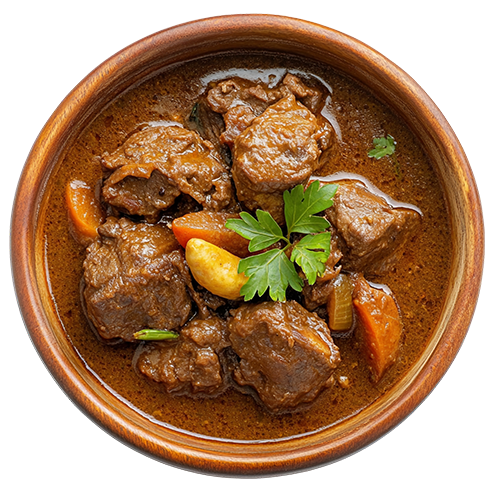
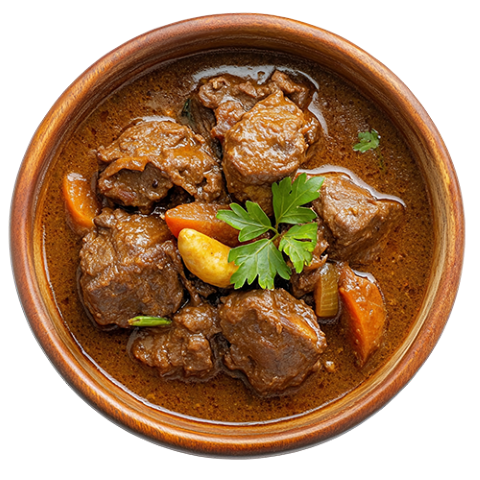
''

diff --git a/index.html b/index.html
@@ -91,7 +91,7 @@
                 <div class="card">
                     <img src="img/samosa.png" alt="" class="dis">
                     <h4>Ksh 100</h4>
-                    <h5>Samosa</h5>
+                    <h5>Samosa </h5>
                     <p>Per Samosa</p>
                     <div class="rate_cart">
                         <h6>5.0</h6>
@@ -111,9 +111,9 @@
                 </div>
 
                 <div class="card">
-                    <img src="img/Matumboc.png" alt="" class="dis">
+                    <img src="img/mbuzi.png" alt="" class="dis">
                     <h4>Ksh 400</h4>
-                    <h5>Matumbo</h5>
+                    <h5>Mbuzi</h5>
                     <p>Per Plate</p>
                     <div class="rate_cart">
                         <h6>5.0</h6>
